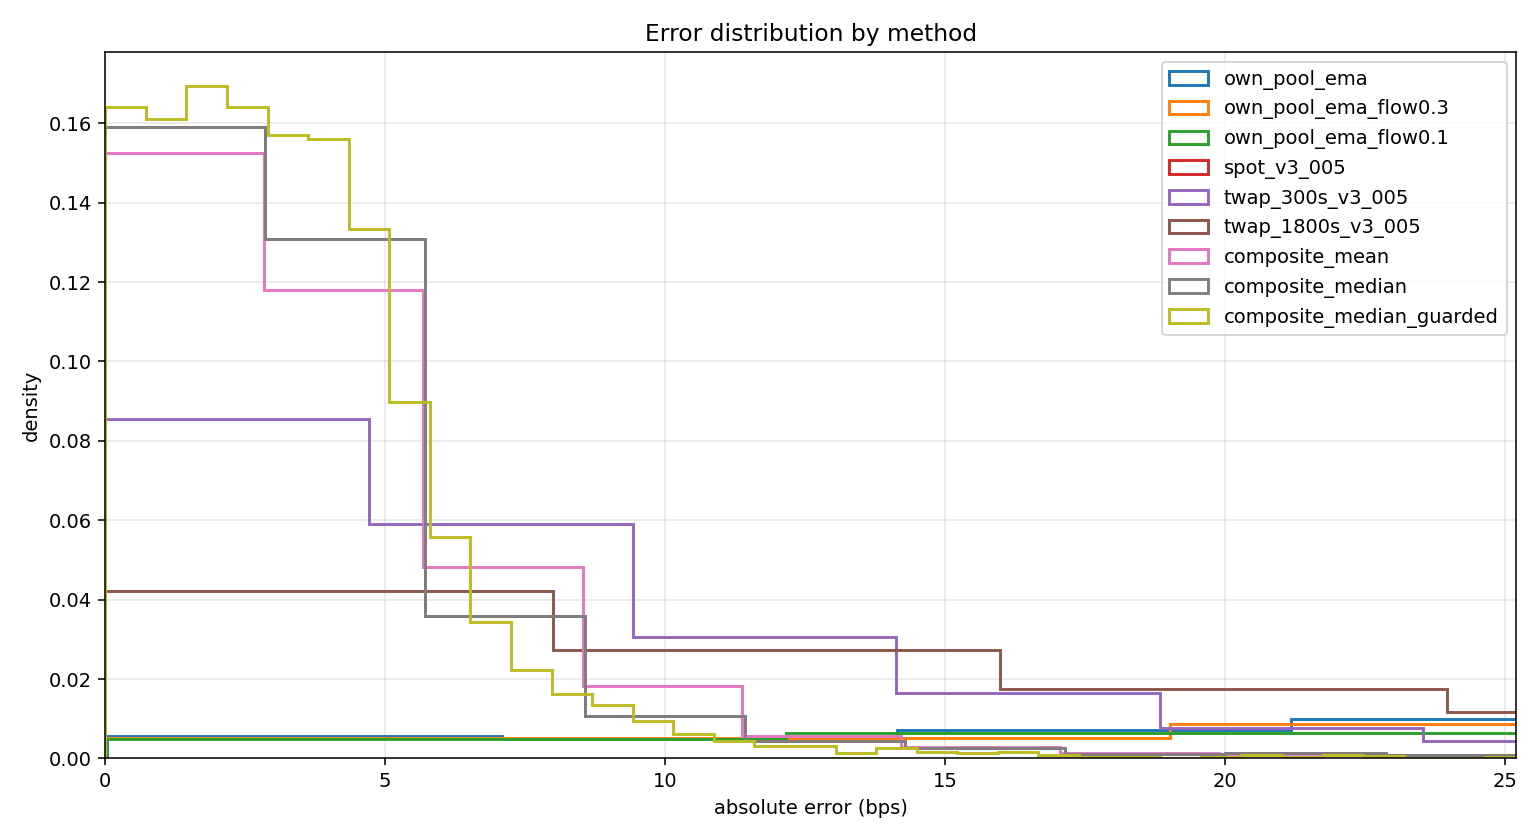
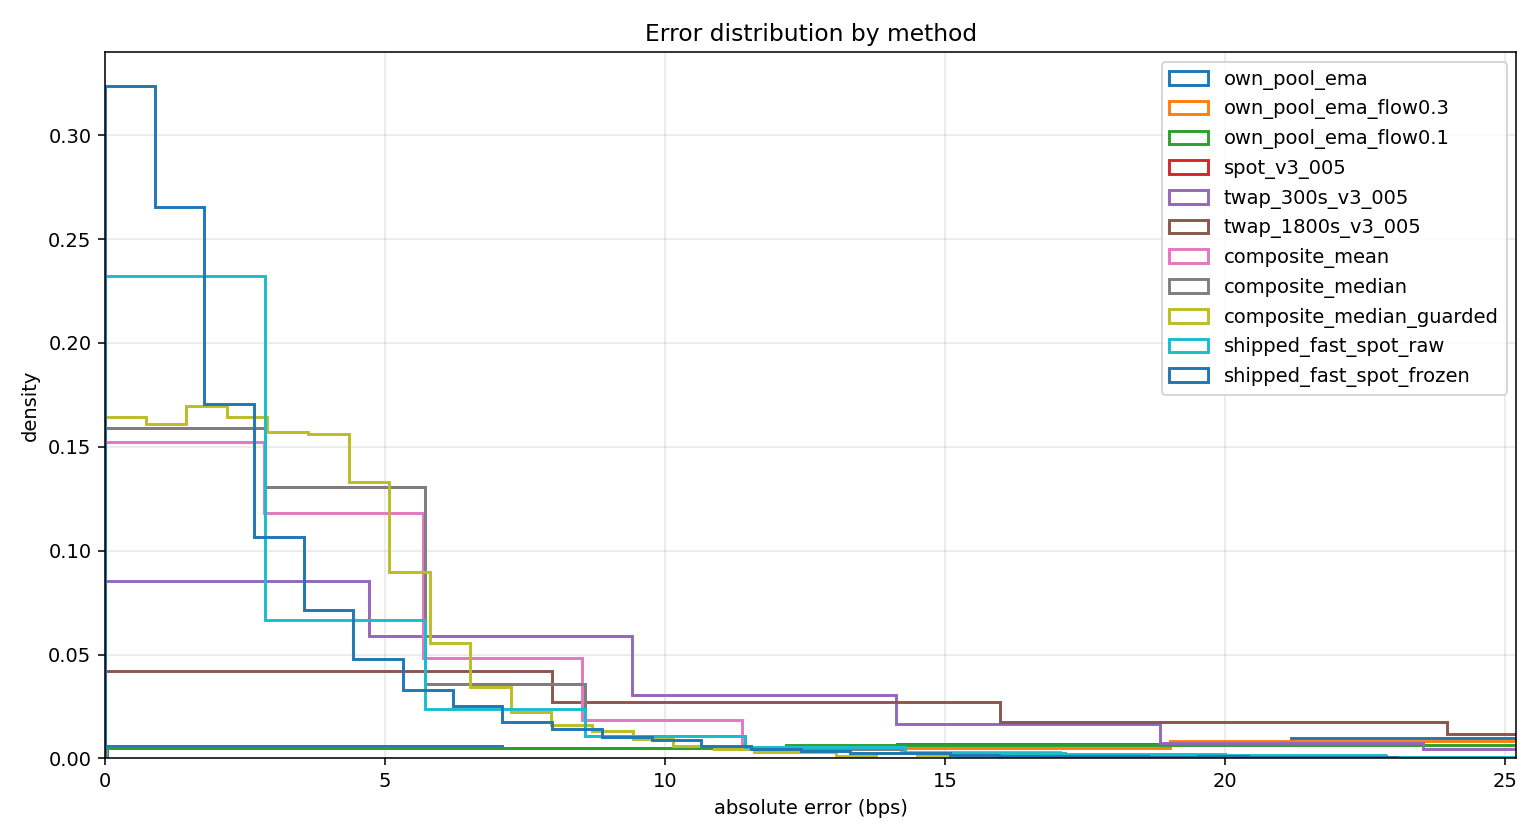
shipped-path rows + manipulation cost outputs

diff --git a/analyze.py b/analyze.py
@@ -228,6 +228,41 @@ def main():
     methods["composite_median_guarded"] = guarded
     freeze_rate = float(np.mean(frozen))
 
+    # ---- the shipped path -------------------------------------------------
+    # The rows above score CANDIDATE designs. These two score what the contract
+    # actually does: SplitV3Reference reads the fast pool's spot tick (v3 0.01%,
+    # most-traded, freshest), and computes divergence exactly as the contract does --
+    # the worse of (deep spot vs its own TWAP) and (fast spot vs deep spot).
+    #
+    #   shipped_fast_spot_raw    divergence is PRICED, the reference is never withheld,
+    #                            so coverage is 100%. This is what ships.
+    #   shipped_fast_spot_frozen the same reference under the OLD boolean guard, which
+    #                            withheld it above GUARD_MAX_DEV_TICKS. Kept so the
+    #                            accuracy-vs-coverage tradeoff of that change is visible
+    #                            rather than asserted.
+    FAST_LABEL, DEEP_LABEL = "v3_001", "v3_005"
+    if f"tick_{FAST_LABEL}" in frame and f"tick_{DEEP_LABEL}" in frame:
+        fast_tick = frame[f"tick_{FAST_LABEL}"].to_numpy()
+        deep_tick = frame[f"tick_{DEEP_LABEL}"].to_numpy()
+        deep_twap = time_weighted_average(ts, deep_tick, max(C.TWAP_WINDOWS))
+
+        methods["shipped_fast_spot_raw"] = fast_tick
+
+        div = np.maximum(np.abs(deep_tick - deep_twap), np.abs(fast_tick - deep_tick))
+        shipped_frozen = fast_tick.copy()
+        shipped_frozen[div > C.GUARD_MAX_DEV_TICKS] = np.nan
+        methods["shipped_fast_spot_frozen"] = shipped_frozen
+
+        div_valid = div[~np.isnan(div)]
+        if len(div_valid):
+            print(f"\nshipped divergence signal (max of deep-vs-TWAP, fast-vs-deep):")
+            print(f"  mean {div_valid.mean():.2f}  p95 {np.percentile(div_valid, 95):.2f}"
+                  f"  p99 {np.percentile(div_valid, 99):.2f}  max {div_valid.max():.2f} ticks")
+            print(f"  share of blocks above the {C.GUARD_MAX_DEV_TICKS}-tick tolerance: "
+                  f"{100 * np.mean(div_valid > C.GUARD_MAX_DEV_TICKS):.2f}%")
+    else:
+        print(f"[warn] {FAST_LABEL}/{DEEP_LABEL} not both present; shipped rows skipped")
+
     # ---- score every method
     cex_tick = frame["cex_tick"].to_numpy()
     results = []

diff --git a/out/error_table_25527155_25534325.md b/out/error_table_25527155_25534325.md
@@ -1,0 +1,16 @@
+| Method | Mean err (bps) | Median | p95 | Max | Lag (blocks) | Coverage |
+|---|---|---|---|---|---|---|
+| `shipped_fast_spot_frozen` | 3.8 | 2.38 | 11.53 | 112.14 | 5 | 96.1% |
+| `shipped_fast_spot_raw` | 4.15 | 2.47 | 13.13 | 112.14 | 4 | 100.0% |
+| `composite_median_guarded` | 4.56 | 3.35 | 12.18 | 108.14 | 5 | 96.1% |
+| `spot_v3_005` | 4.89 | 3.46 | 14.29 | 108.14 | 4 | 100.0% |
+| `composite_median` | 4.89 | 3.46 | 14.29 | 108.14 | 4 | 100.0% |
+| `composite_mean` | 5.4 | 3.94 | 14.85 | 106.53 | 4 | 100.0% |
+| `twap_300s_v3_005` | 7.89 | 5.38 | 22.2 | 94.82 | 17 | 100.0% |
+| `twap_1800s_v3_005` | 16.15 | 10.46 | 44.32 | 168.25 | 25 | 100.0% |
+| `own_pool_ema` | 52.56 | 47.57 | 107.36 | 212.34 | 19 | 100.0% |
+| `own_pool_ema_flow0.3` | 61.96 | 50.77 | 165.29 | 310.55 | 10 | 100.0% |
+| `own_pool_ema_flow0.1` | 84.71 | 60.29 | 265.98 | 411.4 | 15 | 100.0% |
+
+Guard freeze rate: 3.89% of blocks (threshold 50 ticks)
+Window: blocks 25527160–25534325, 7166 blocks, ETHUSDC 1m as ground truth

diff --git a/out/error_table_25598870_25606053.md b/out/error_table_25598870_25606053.md
@@ -1,0 +1,16 @@
+| Method | Mean err (bps) | Median | p95 | Max | Lag (blocks) | Coverage |
+|---|---|---|---|---|---|---|
+| `shipped_fast_spot_frozen` | 2.24 | 1.58 | 6.53 | 33.96 | 2 | 98.3% |
+| `shipped_fast_spot_raw` | 2.31 | 1.61 | 6.77 | 42.05 | 0 | 100.0% |
+| `composite_median_guarded` | 3.18 | 2.77 | 7.36 | 36.96 | 2 | 98.3% |
+| `spot_v3_005` | 3.23 | 2.78 | 7.46 | 39.05 | 0 | 100.0% |
+| `composite_median` | 3.23 | 2.78 | 7.46 | 39.05 | 0 | 100.0% |
+| `composite_mean` | 3.88 | 3.21 | 9.19 | 41.99 | 0 | 100.0% |
+| `twap_300s_v3_005` | 5.91 | 4.3 | 16.35 | 51.91 | 13 | 100.0% |
+| `twap_1800s_v3_005` | 11.47 | 7.63 | 32.74 | 99.28 | 20 | 100.0% |
+| `own_pool_ema` | 33.52 | 30.03 | 80.18 | 147.55 | 25 | 100.0% |
+| `own_pool_ema_flow0.3` | 36.11 | 30.62 | 92.72 | 162.63 | 19 | 100.0% |
+| `own_pool_ema_flow0.1` | 41.1 | 32.39 | 115.84 | 188.15 | 11 | 100.0% |
+
+Guard freeze rate: 1.67% of blocks (threshold 50 ticks)
+Window: blocks 25598875–25606053, 7179 blocks, ETHUSDC 1m as ground truth

diff --git a/out/error_table_25785425_25799780_ETHUSDC_1s.md b/out/error_table_25785425_25799780_ETHUSDC_1s.md
@@ -1,5 +1,7 @@
 | Method | Mean err (bps) | Median | p95 | Max | Lag (blocks) | Coverage |
 |---|---|---|---|---|---|---|
+| `shipped_fast_spot_frozen` | 2.69 | 1.68 | 8.55 | 70.97 | 19 | 89.9% |
+| `shipped_fast_spot_raw` | 3.48 | 1.81 | 11.25 | 228.65 | 0 | 100.0% |
 | `composite_median_guarded` | 3.5 | 3.03 | 8.15 | 57.97 | 19 | 89.9% |
 | `spot_v3_005` | 4.18 | 3.15 | 9.88 | 228.65 | 0 | 100.0% |
 | `composite_median` | 4.18 | 3.15 | 9.88 | 228.65 | 0 | 100.0% |
